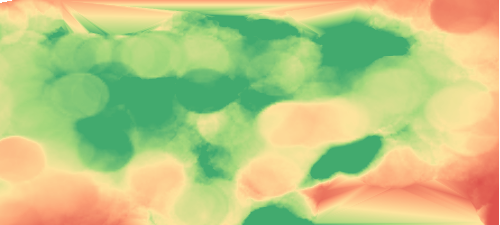
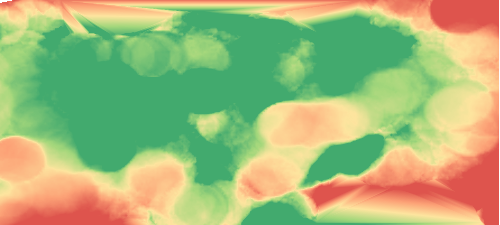
b-value renk skalasi guncellendi: 0.7-1.3 (NAF<->Ege gradyani daha belirgin)

diff --git a/index.html b/index.html
@@ -143,8 +143,8 @@
       </div>
       <div class="legend-section-body hidden" id="lgBval">
         <div style="height:8px;border-radius:3px;margin:4px 0 2px;background:linear-gradient(to right,#d73027,#fc8d59,#fee08b,#91cf60,#1a9850)"></div>
-        <div style="display:flex;justify-content:space-between;color:#555;font-size:.68rem"><span style="color:#d73027">b≈0.5 (stres)</span><span style="color:#1a9850">b≈1.0+ (normal)</span></div>
-        <div style="color:#555;font-size:.68rem;margin-top:4px">Aki (1965) + Utsu (1966) · Mc=2.95 · N≥100<br>ISC M≥4.5 (1965–97) + EMSC M≥3.0 (1998–2026)</div>
+        <div style="display:flex;justify-content:space-between;color:#555;font-size:.68rem"><span style="color:#d73027">b≤0.7 (yüksek stres)</span><span>b=1.0 (nötr)</span><span style="color:#1a9850">b≥1.3 (genişlemeli)</span></div>
+        <div style="color:#555;font-size:.68rem;margin-top:4px">Aki (1965) + Utsu (1966) · Mc=3.0 · N≥50 · R=100km<br>EMSC M≥3.0 (1998–2026) · Öncel &amp; Wyss (2000)</div>
       </div>
     </div>
 

diff --git a/scripts/build_bvalue_triangulation.py b/scripts/build_bvalue_triangulation.py
@@ -36,8 +36,8 @@ BOUNDS = dict(minlat=34.0, maxlat=43.0, minlon=25.0, maxlon=45.0)
 GRID_W = 500   # lon: 25–45° / 500 = 0.04°/px
 GRID_H = 225   # lat: 34–43° / 225 = 0.04°/px
 
-# b-değeri renk skalası — sabit
-B_LOW, B_HIGH = 0.5, 1.5
+# b-değeri renk skalası — veri medyanı (1.15) merkez, NAF-tipi düşük b görünür
+B_LOW, B_HIGH = 0.7, 1.3
 CMAP = LinearSegmentedColormap.from_list('bvalue_rdylgn', [
     (0.00, '#d73027'),
     (0.25, '#fc8d59'),